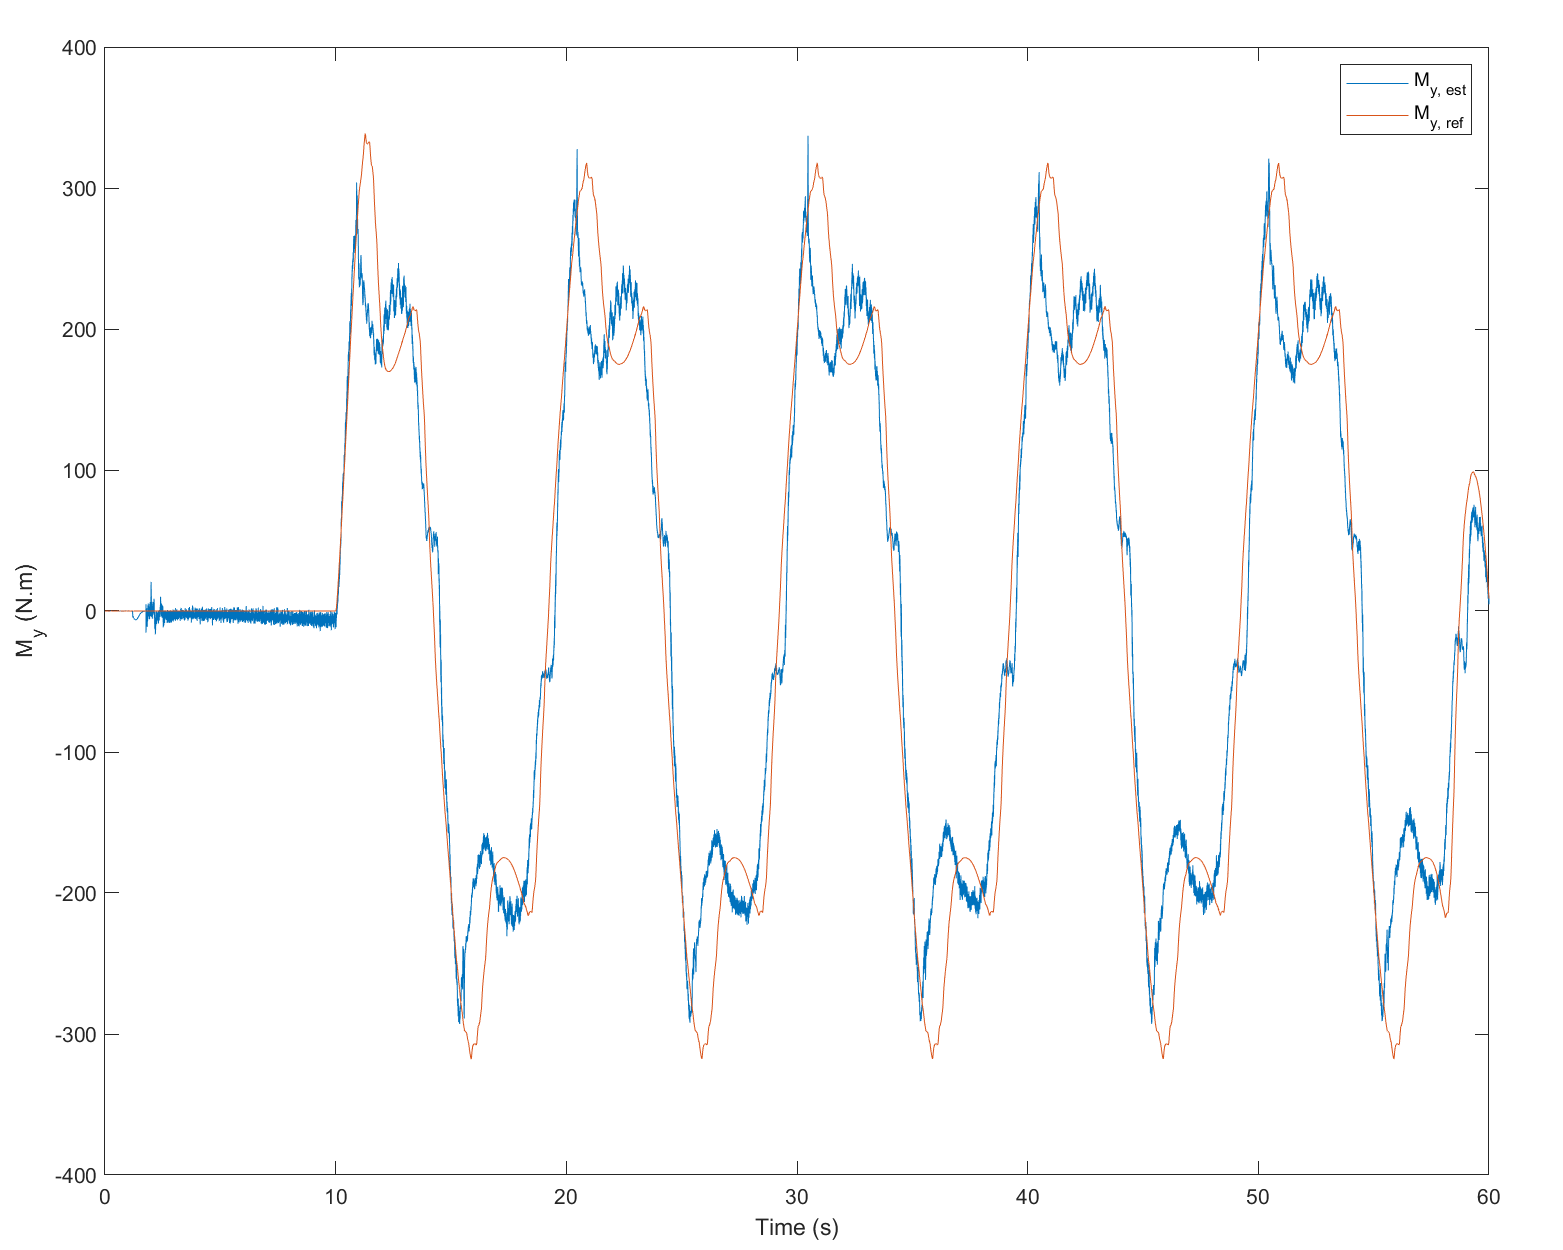
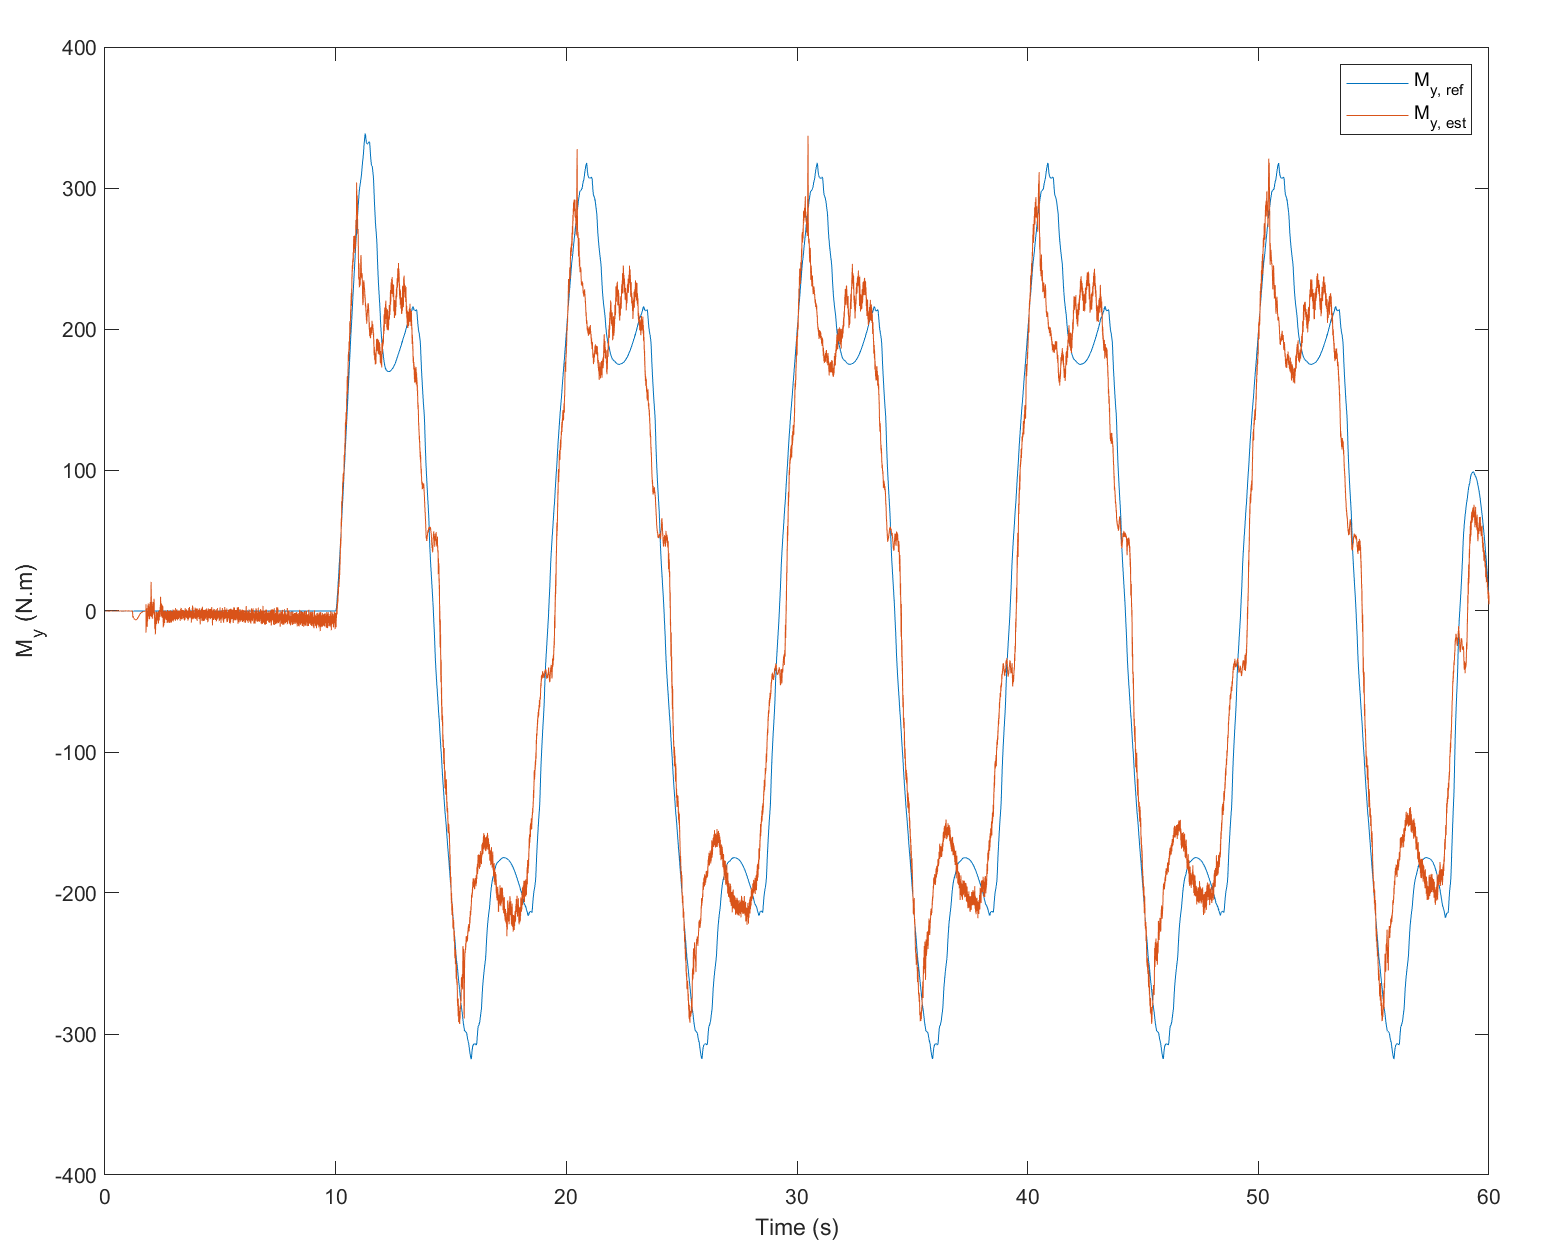
2024-08-30

diff --git a/Simulink/result_plot.m b/Simulink/result_plot.m
@@ -43,18 +43,18 @@ set(gcf, 'Position', [100, 100, 1000, 800]);
 tiledlayout(2, 1, 'Padding', 'compact', 'TileSpacing', 'compact');
 
 nexttile;
-plot(Fy_sinus_time(sinus_indices), Fyfl_sinus_est(sinus_indices)); hold on;
-plot(Fy_sinus_time(sinus_indices), Fyfl_sinus_true_interp(sinus_indices)); hold off;
+plot(Fy_sinus_time(sinus_indices), Fyfl_sinus_true_interp(sinus_indices)); hold on;
+plot(Fy_sinus_time(sinus_indices), Fyfl_sinus_est(sinus_indices)); hold off;
 xlabel('Time (s)');
 ylabel('Fy_{fl} (N)');
-legend('Fy_{fl, est}', 'Fy_{fl, ref}');
+legend('Fy_{fl, ref}', 'Fy_{fl, est}');
 
 nexttile;
-plot(Fy_sinus_time(sinus_indices), Fyfr_sinus_est(sinus_indices)); hold on;
-plot(Fy_sinus_time(sinus_indices), Fyfr_sinus_true_interp(sinus_indices)); hold off;
+plot(Fy_sinus_time(sinus_indices), Fyfr_sinus_true_interp(sinus_indices)); hold on;
+plot(Fy_sinus_time(sinus_indices), Fyfr_sinus_est(sinus_indices)); hold off;
 xlabel('Time (s)');
 ylabel('Fy_{fr} (N)');
-legend('Fy_{fr, est}', 'Fy_{fr, ref}');
+legend('Fy_{fr, ref}', 'Fy_{fr, est}');
 
 saveas(figure(1), 'C:\Users\SMEET_SIMUL\Desktop\Torque-Vectoring\Paper\Figures\frontForce_sinus.png');
 
@@ -63,18 +63,18 @@ set(gcf, 'Position', [100, 100, 1000, 800]);
 tiledlayout(2, 1, 'Padding', 'compact', 'TileSpacing', 'compact');
 
 nexttile;
-plot(Fy_sinus_time(sinus_indices), Fyrl_sinus_est(sinus_indices)); hold on;
-plot(Fy_sinus_time(sinus_indices), Fyrl_sinus_true_interp(sinus_indices)); hold off;
+plot(Fy_sinus_time(sinus_indices), Fyrl_sinus_true_interp(sinus_indices)); hold on;
+plot(Fy_sinus_time(sinus_indices), Fyrl_sinus_est(sinus_indices)); hold off;
 xlabel('Time (s)');
 ylabel('Fy_{rl} (N)');
-legend('Fy_{rl, est}', 'Fy_{rl, ref}');
+legend('Fy_{rl, ref}', 'Fy_{rl, est}');
 
 nexttile;
-plot(Fy_sinus_time(sinus_indices), Fyrr_sinus_est(sinus_indices)); hold on;
-plot(Fy_sinus_time(sinus_indices), Fyrr_sinus_true_interp(sinus_indices)); hold off;
+plot(Fy_sinus_time(sinus_indices), Fyrr_sinus_true_interp(sinus_indices)); hold on;
+plot(Fy_sinus_time(sinus_indices), Fyrr_sinus_est(sinus_indices)); hold off;
 xlabel('Time (s)');
 ylabel('Fy_{rr} (N)');
-legend('Fy_{rr, est}', 'Fy_{rr, ref}');
+legend( 'Fy_{rr, ref}', 'Fy_{rr, est}');
 
 saveas(figure(2), 'C:\Users\SMEET_SIMUL\Desktop\Torque-Vectoring\Paper\Figures\rearForce_sinus.png');
 
@@ -83,11 +83,11 @@ set(gcf, 'Position', [100, 100, 1000, 800]);
 tiledlayout(1, 1, 'Padding', 'compact', 'TileSpacing', 'compact'); 
 
 nexttile;
-plot(My_sinus_est_time(My_sinus_indices), My_sinus_est(My_sinus_indices)); hold on;
-plot(My_sinus_est_time(My_sinus_indices), My_sinus_true_interp(My_sinus_indices)); hold off;
+plot(My_sinus_est_time(My_sinus_indices), My_sinus_true_interp(My_sinus_indices)); hold on;
+plot(My_sinus_est_time(My_sinus_indices), My_sinus_est(My_sinus_indices)); hold off;
 xlabel('Time (s)');
 ylabel('M_{y} (N.m)');
-legend('M_{y, est}', 'M_{y, ref}');
+legend('M_{y, ref}', 'M_{y, est}');
 
 saveas(figure(3), 'C:\Users\SMEET_SIMUL\Desktop\Torque-Vectoring\Paper\Figures\My_sinus.png');
 
@@ -138,18 +138,18 @@ set(gcf, 'Position', [100, 100, 1000, 800]);
 tiledlayout(2, 1, 'Padding', 'compact', 'TileSpacing', 'compact');
 
 nexttile;
-plot(Fy_steady_time(steady_indices), Fyfl_steady_est(steady_indices)); hold on;
-plot(Fy_steady_time(steady_indices), Fyfl_steady_true_interp(steady_indices)); hold off;
+plot(Fy_steady_time(steady_indices), Fyfl_steady_true_interp(steady_indices)); hold on;
+plot(Fy_steady_time(steady_indices), Fyfl_steady_est(steady_indices)); hold off;
 xlabel('Time (s)');
 ylabel('Fy_{fl} (N)');
 legend('Fy_{fl, est}', 'Fy_{fl, ref}');
 
 nexttile;
-plot(Fy_steady_time(steady_indices), Fyfr_steady_est(steady_indices)); hold on;
-plot(Fy_steady_time(steady_indices), Fyfr_steady_true_interp(steady_indices)); hold off;
+plot(Fy_steady_time(steady_indices), Fyfr_steady_true_interp(steady_indices)); hold on;
+plot(Fy_steady_time(steady_indices), Fyfr_steady_est(steady_indices)); hold off;
 xlabel('Time (s)');
 ylabel('Fy_{fr} (N)');
-legend('Fy_{fr, est}', 'Fy_{fr, ref}');
+legend('Fy_{fr, ref}', 'Fy_{fr, est}');
 
 saveas(figure(4), 'C:\Users\SMEET_SIMUL\Desktop\Torque-Vectoring\Paper\Figures\frontForce_steady.png');
 
@@ -158,18 +158,18 @@ set(gcf, 'Position', [100, 100, 1000, 800]);
 tiledlayout(2, 1, 'Padding', 'compact', 'TileSpacing', 'compact');
 
 nexttile;
-plot(Fy_steady_time(steady_indices), Fyrl_steady_est(steady_indices)); hold on;
-plot(Fy_steady_time(steady_indices), Fyrl_steady_true_interp(steady_indices)); hold off;
+plot(Fy_steady_time(steady_indices), Fyrl_steady_true_interp(steady_indices)); hold on;
+plot(Fy_steady_time(steady_indices), Fyrl_steady_est(steady_indices)); hold off;
 xlabel('Time (s)');
 ylabel('Fy_{rl} (N)');
-legend('Fy_{rl, est}', 'Fy_{rl, ref}');
+legend('Fy_{rl, ref}', 'Fy_{rl, est}');
 
 nexttile;
-plot(Fy_steady_time(steady_indices), Fyrr_steady_est(steady_indices)); hold on;
-plot(Fy_steady_time(steady_indices), Fyrr_steady_true_interp(steady_indices)); hold off;
+plot(Fy_steady_time(steady_indices), Fyrr_steady_true_interp(steady_indices)); hold on;
+plot(Fy_steady_time(steady_indices), Fyrr_steady_est(steady_indices)); hold off;
 xlabel('Time (s)');
 ylabel('Fy_{rr} (N)');
-legend('Fy_{rr, est}', 'Fy_{rr, ref}');
+legend('Fy_{rr, ref}', 'Fy_{rr, est}');
 
 saveas(figure(5), 'C:\Users\SMEET_SIMUL\Desktop\Torque-Vectoring\Paper\Figures\rearForce_steady.png');
 
@@ -178,11 +178,11 @@ set(gcf, 'Position', [100, 100, 1000, 800]);
 tiledlayout(1, 1, 'Padding', 'compact', 'TileSpacing', 'compact'); 
 
 nexttile;
-plot(My_steady_est_time(My_steady_indices), My_steady_est(My_steady_indices)); hold on;
-plot(My_steady_est_time(My_steady_indices), My_steady_true_interp(My_steady_indices)); hold off;
+plot(My_steady_est_time(My_steady_indices), My_steady_true_interp(My_steady_indices)); hold on;
+plot(My_steady_est_time(My_steady_indices), My_steady_est(My_steady_indices)); hold off;
 xlabel('Time (s)');
 ylabel('M_{y} (N.m)');
-legend('M_{y, est}', 'M_{y, ref}');
+legend('M_{y, ref}', 'M_{y, est}');
 ylim([-200, 200]);
 saveas(figure(6), 'C:\Users\SMEET_SIMUL\Desktop\Torque-Vectoring\Paper\Figures\My_steady.png');
 
@@ -232,18 +232,18 @@ set(gcf, 'Position', [100, 100, 1000, 800]);
 tiledlayout(2, 1, 'Padding', 'compact', 'TileSpacing', 'compact');
 
 nexttile;
-plot(Fy_race_time(race_indices), Fyfl_race_est(race_indices)); hold on;
-plot(Fy_race_time(race_indices), Fyfl_race_true_interp(race_indices)); hold off;
+plot(Fy_race_time(race_indices), Fyfl_race_true_interp(race_indices)); hold on;
+plot(Fy_race_time(race_indices), Fyfl_race_est(race_indices)); hold off;
 xlabel('Time (s)');
 ylabel('Fy_{fl} (N)');
-legend('Fy_{fl, est}', 'Fy_{fl, ref}');
+legend('Fy_{fl, ref}', 'Fy_{fl, est}');
 
 nexttile;
-plot(Fy_race_time(race_indices), Fyfr_race_est(race_indices)); hold on;
-plot(Fy_race_time(race_indices), Fyfr_race_true_interp(race_indices)); hold off;
+plot(Fy_race_time(race_indices), Fyfr_race_true_interp(race_indices)); hold on;
+plot(Fy_race_time(race_indices), Fyfr_race_est(race_indices)); hold off;
 xlabel('Time (s)');
 ylabel('Fy_{fr} (N)');
-legend('Fy_{fr, est}', 'Fy_{fr, ref}');
+legend('Fy_{fr, ref}', 'Fy_{fr, est}');
 
 saveas(figure(7), 'C:\Users\SMEET_SIMUL\Desktop\Torque-Vectoring\Paper\Figures\frontForce_race.png');
 
@@ -252,18 +252,18 @@ set(gcf, 'Position', [100, 100, 1000, 800]);
 tiledlayout(2, 1, 'Padding', 'compact', 'TileSpacing', 'compact');
 
 nexttile;
-plot(Fy_race_time(race_indices), Fyrl_race_est(race_indices)); hold on;
-plot(Fy_race_time(race_indices), Fyrl_race_true_interp(race_indices)); hold off;
+plot(Fy_race_time(race_indices), Fyrl_race_true_interp(race_indices)); hold on;
+plot(Fy_race_time(race_indices), Fyrl_race_est(race_indices)); hold off;
 xlabel('Time (s)');
 ylabel('Fy_{rl} (N)');
-legend('Fy_{rl, est}', 'Fy_{rl, ref}');
+legend('Fy_{rl, ref}', 'Fy_{rl, est}');
 
 nexttile;
-plot(Fy_race_time(race_indices), Fyrr_race_est(race_indices)); hold on;
-plot(Fy_race_time(race_indices), Fyrr_race_true_interp(race_indices)); hold off;
+plot(Fy_race_time(race_indices), Fyrr_race_true_interp(race_indices)); hold on;
+plot(Fy_race_time(race_indices), Fyrr_race_est(race_indices)); hold off;
 xlabel('Time (s)');
 ylabel('Fy_{rr} (N)');
-legend('Fy_{rr, est}', 'Fy_{rr, ref}');
+legend('Fy_{rr, ref}', 'Fy_{rr, est}');
 
 saveas(figure(8), 'C:\Users\SMEET_SIMUL\Desktop\Torque-Vectoring\Paper\Figures\rearForce_race.png');
 
@@ -272,10 +272,10 @@ set(gcf, 'Position', [100, 100, 1000, 800]);
 tiledlayout(1, 1, 'Padding', 'compact', 'TileSpacing', 'compact'); 
 
 nexttile;
-plot(My_race_est_time(My_race_indices), My_race_est(My_race_indices)); hold on;
-plot(My_race_est_time(My_race_indices), My_race_true_interp(My_race_indices)); hold off;
+plot(My_race_est_time(My_race_indices), My_race_true_interp(My_race_indices)); hold on;
+plot(My_race_est_time(My_race_indices), My_race_est(My_race_indices)); hold off;
 xlabel('Time (s)');
 ylabel('M_{y} (N.m)');
-legend('M_{y, est}', 'M_{y, ref}');
+legend('M_{y, ref}', 'M_{y, est}');
 
 saveas(figure(9), 'C:\Users\SMEET_SIMUL\Desktop\Torque-Vectoring\Paper\Figures\My_race.png');
